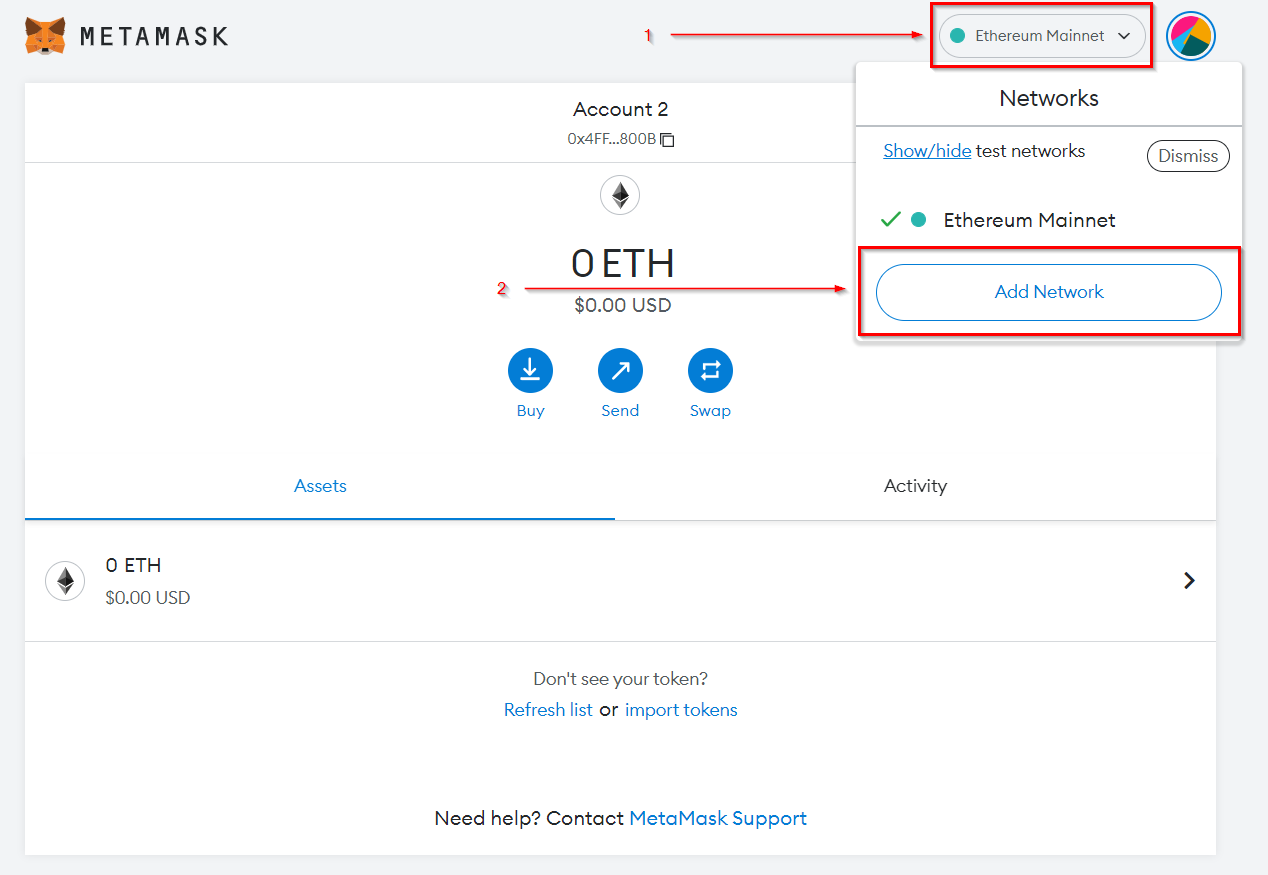
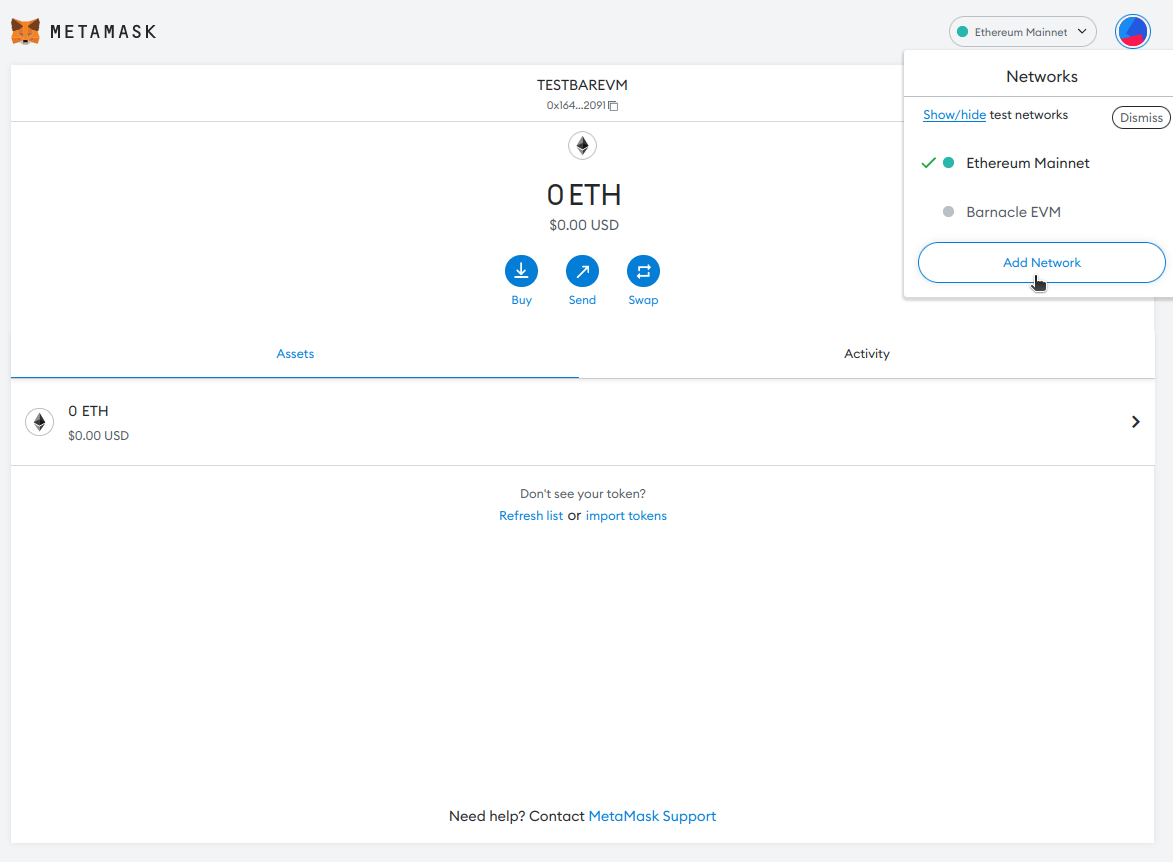
Update evm screenshots

diff --git a/src/guides/appchain-evm.md b/src/guides/appchain-evm.md
@@ -112,7 +112,7 @@ AccountId::from_str("f24FF3a9CF04c71Dbc94D0b566f7A27B94566cac").unwrap(),
 
 Note that there are two identical configurations in the file, but the difference is the running environment. Modify the configurations in `development_config()` if you run as development environment. Modify the configurations in `local_testnet_config()` if you run as local testnet environment.
 
-Then, go to your project's root directory, restart the Barnacle EVM and deploy the smart contracts:
+Then, go to your project's root directory, rebuild the Barnacle EVM and deploy the smart contracts:
 
 ```
 cd ~/*work directory*/barnacle
@@ -154,7 +154,7 @@ Then fill in the Barnacle EVM details. Name the network "Barnacle EVM", then ins
 
 The chain ID of this particular Barnacle EVM is [1281](https://github.com/octopus-network/barnacle/blob/release-v0.9.18-evm/runtime/src/lib.rs#L752).
 
-The barnacle EVM token named "EBAR" defaultly. However, you can name the native token "DOLLAR".
+The barnacle EVM token named "EBAR" defaultly. However, you can also name the native token whatever you like.
 
 After you filled in the form, click "Save".
 
@@ -162,7 +162,7 @@ After you filled in the form, click "Save".
 
 You might need to wait a second for the MetaMask to connect.
 
-![Waiting...](../images/guides/appchain-evm/image-3.png)
+<!-- ![Waiting...](../images/guides/appchain-evm/image-3.png) -->
 
 If you are successfully connected you should see your default funds.
 
